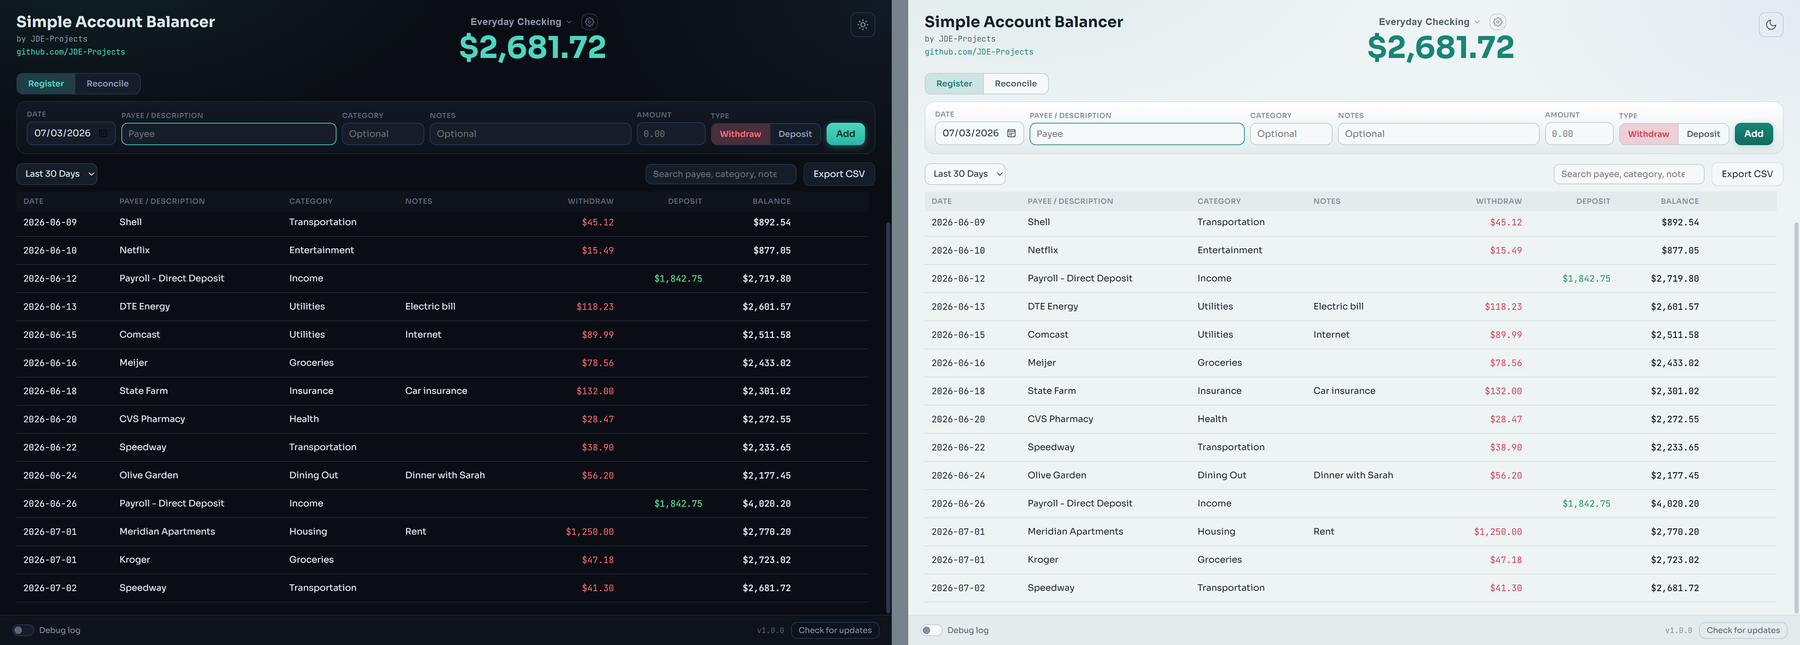
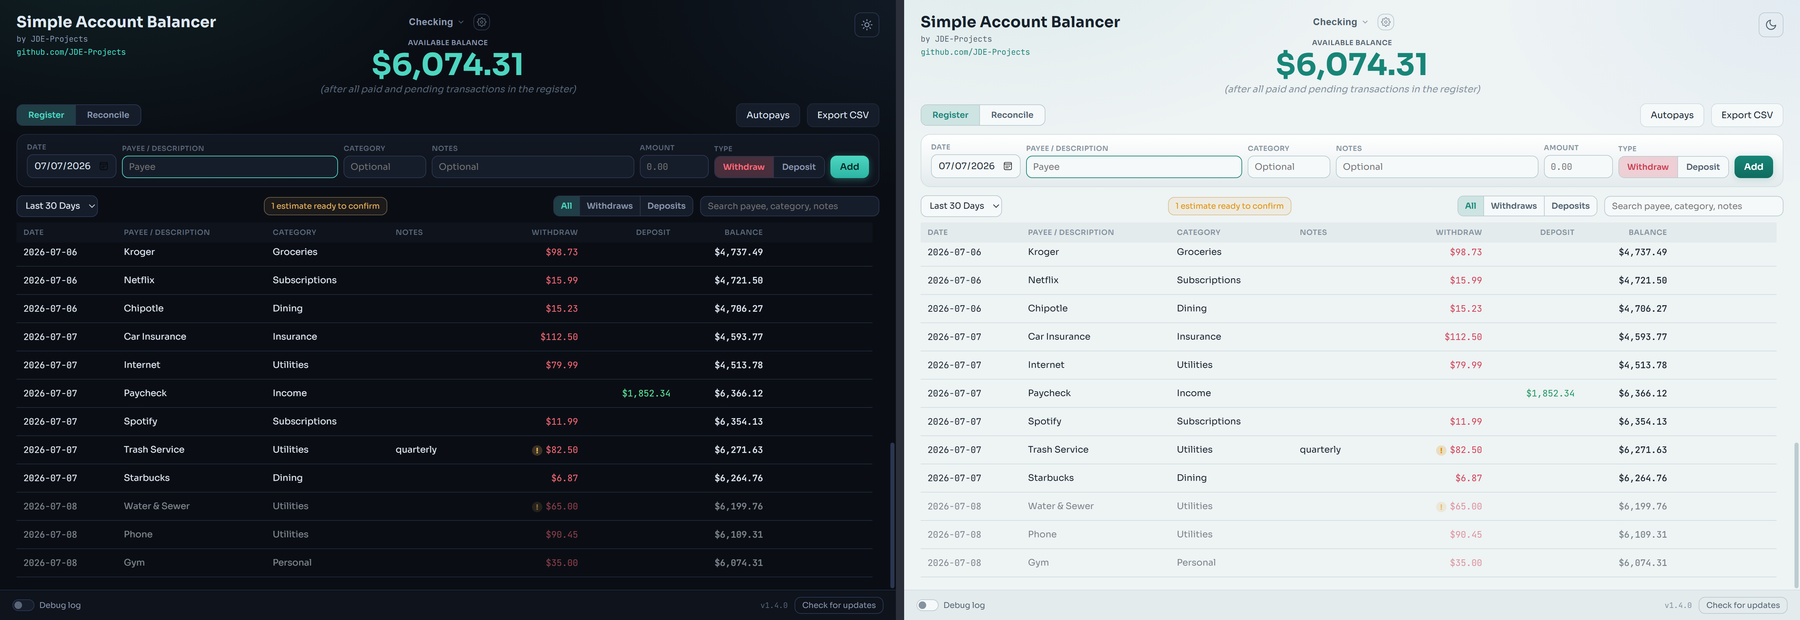
Update README and preview for balance header

diff --git a/README.md b/README.md
@@ -18,9 +18,11 @@ If you enjoyed this project and would like to buy me a coffee, check out my [Ko-
 </p>
 
 ## Highlights
-- Today's balance front and center in the header, next to the active account
-  name; recalculates automatically for out-of-order or backdated entries, with
-  an "After upcoming" line whenever future-dated entries exist.
+- Available balance front and center in the header, next to the active
+  account name: the balance after every transaction in the register,
+  including pending future-dated entries, so the big number is always what
+  you can actually spend. Recalculates automatically for out-of-order or
+  backdated entries.
 - Quick entry with payee autocomplete and freely editable categories.
 - Same-day entries can be reordered: transactions that share a date get a
   reorder button that opens a small dialog for just that day, so a forgotten